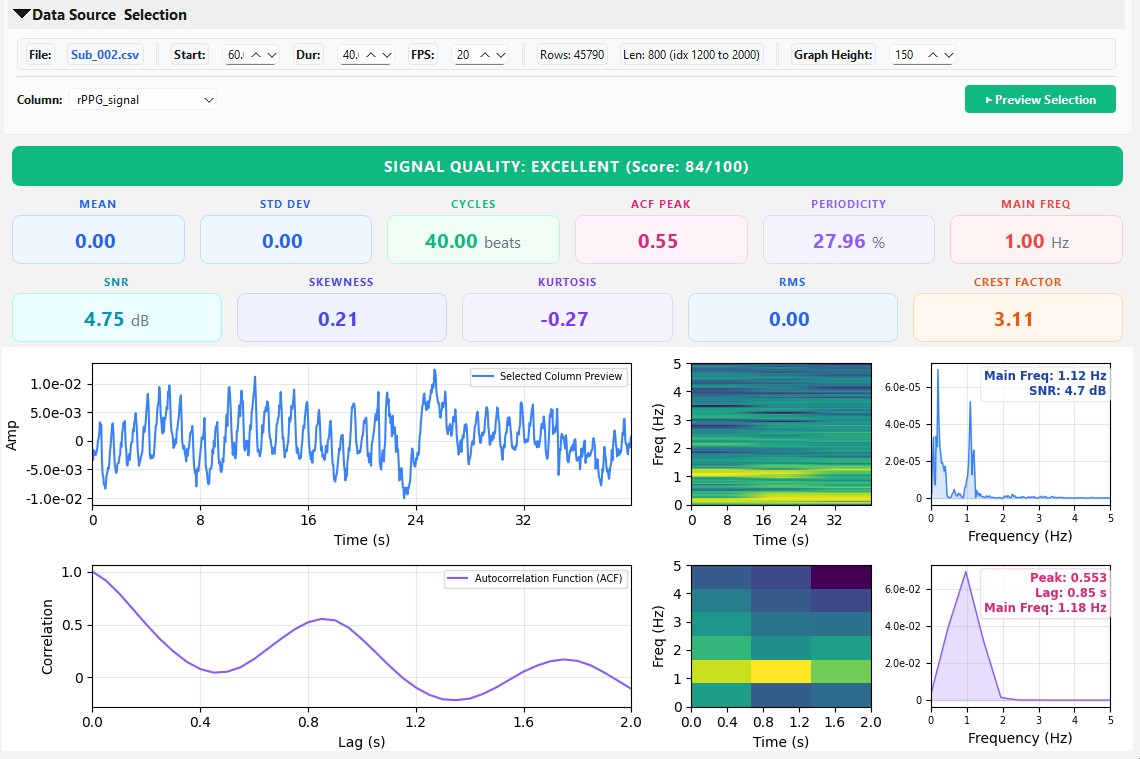
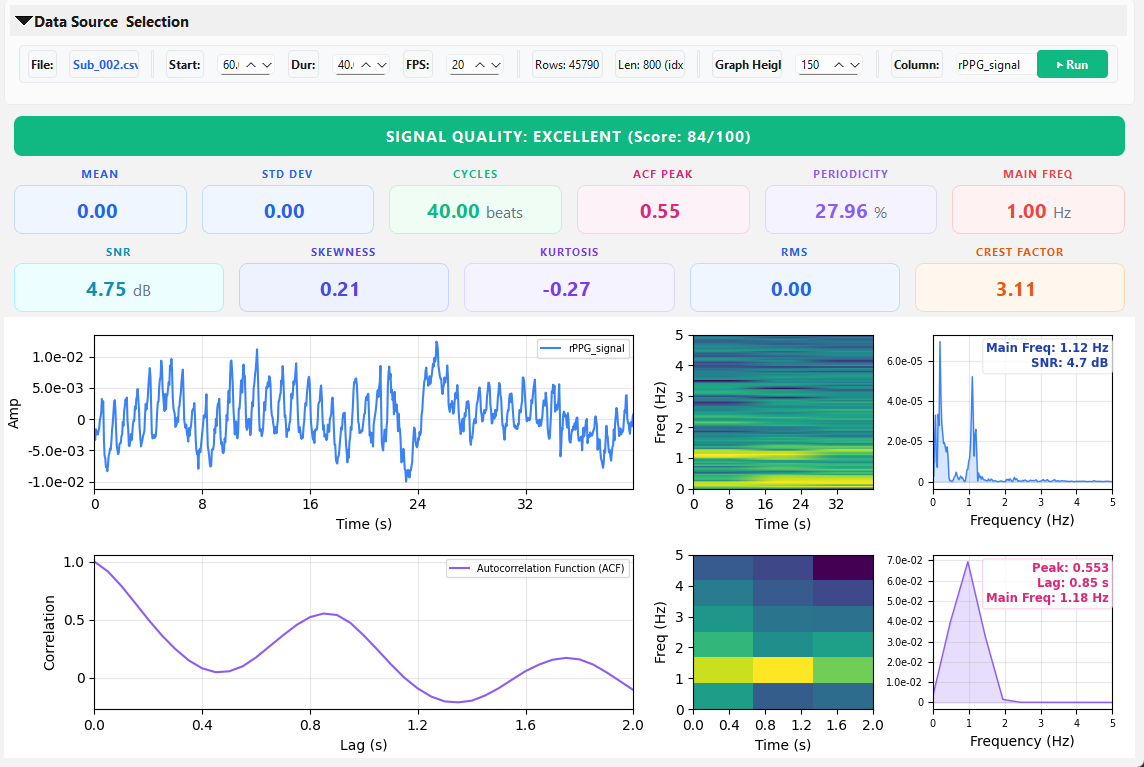
feat: implement signal quality assessment and optimized exploratory UI

diff --git a/gui.py b/gui.py
@@ -686,32 +686,19 @@ class VMDrPPGMainWindow(QMainWindow):
         config_content = QWidget()
         config_layout = QVBoxLayout(config_content)
         
-        # Subject Info (Shared)
-        config_layout.addWidget(self.create_shared_info_widget())
-        
-        line = QFrame()
-        line.setFrameShape(QFrame.HLine)
-        line.setFrameShadow(QFrame.Sunken)
-        config_layout.addWidget(line)
-
-        # Import Controls
-        import_controls = QHBoxLayout()
-        
-        import_controls.addWidget(QLabel("<b>Column:</b>"))
+        # Subject Info (Shar        # Subject Info (Shared) with extra controls for this tab
+        col_label = QLabel("<b>Column:</b>")
         self.column_combo = QComboBox()
         self.column_combo.setMinimumWidth(150)
         self.column_combo.currentTextChanged.connect(self.on_column_changed)
-        import_controls.addWidget(self.column_combo)
         
-        import_controls.addSpacing(10)
-        
-        self.run_import_btn = QPushButton("▶ Preview Selection")
+        self.run_import_btn = QPushButton("▶ Run")
         self.run_import_btn.clicked.connect(self.run_import_preview)
         self.run_import_btn.setStyleSheet("QPushButton { background-color: #10b981; color: white; font-weight: bold; padding: 6px 20px; border-radius: 4px; }")
-        import_controls.addStretch()
-        import_controls.addWidget(self.run_import_btn)
         
-        config_layout.addLayout(import_controls)
+        info_widget = self.create_shared_info_widget(extra_widgets=[col_label, self.column_combo, self.run_import_btn])
+        config_layout.addWidget(info_widget)
+        
         config_box.setContentLayout(config_layout)
         main_layout.addWidget(config_box)
         main_layout.addStretch()
@@ -1145,7 +1132,8 @@ class VMDrPPGMainWindow(QMainWindow):
         self.shared_psd_axis = None
         
         # Original Raw Signal
-        self.add_chart_row("Selected Column Preview", signal, "#3b82f6", None, hr_raw, snr_raw,
+        column_name = self.column_combo.currentText()
+        self.add_chart_row(column_name, signal, "#3b82f6", None, hr_raw, snr_raw,
                            target_layout=self.import_results_layout,
                            target_chart_rows_list=self.eda_chart_rows)
 
@@ -1172,7 +1160,7 @@ class VMDrPPGMainWindow(QMainWindow):
         # Import is index 0
         self.results_stack.setCurrentIndex(0)
 
-    def create_shared_info_widget(self):
+    def create_shared_info_widget(self, extra_widgets=None):
         """Creates a subject info widget and registers its controls for sync"""
         container = QFrame()
         container.setFrameShape(QFrame.StyledPanel)
@@ -1244,6 +1232,14 @@ class VMDrPPGMainWindow(QMainWindow):
         chart_height_spin.valueChanged.connect(self.sync_shared_controls)
         layout.addWidget(chart_height_spin)
         
+        if extra_widgets:
+            sep = QFrame()
+            sep.setFrameShape(QFrame.VLine)
+            sep.setFrameShadow(QFrame.Sunken)
+            layout.addWidget(sep)
+            for w in extra_widgets:
+                layout.addWidget(w)
+                
         layout.addStretch()
         
         # Register controls
